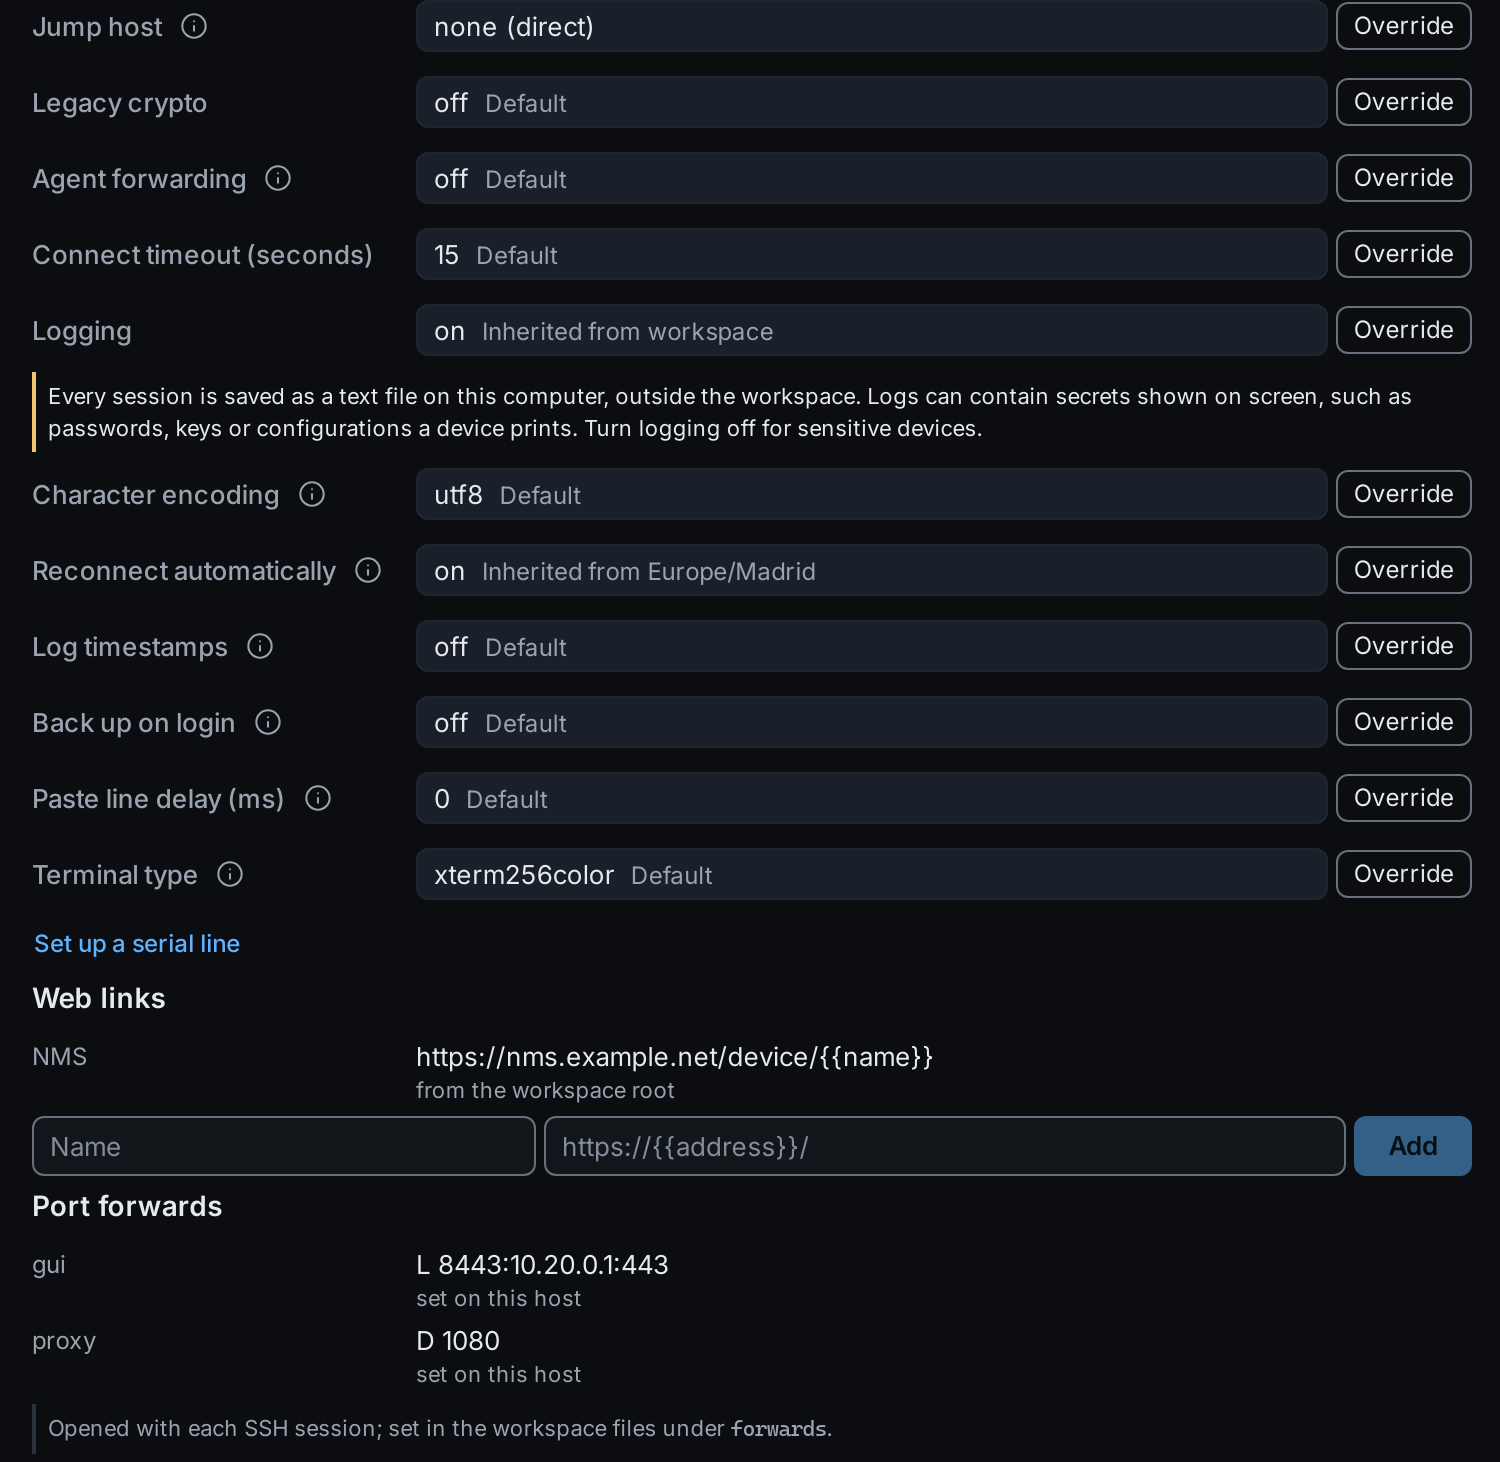
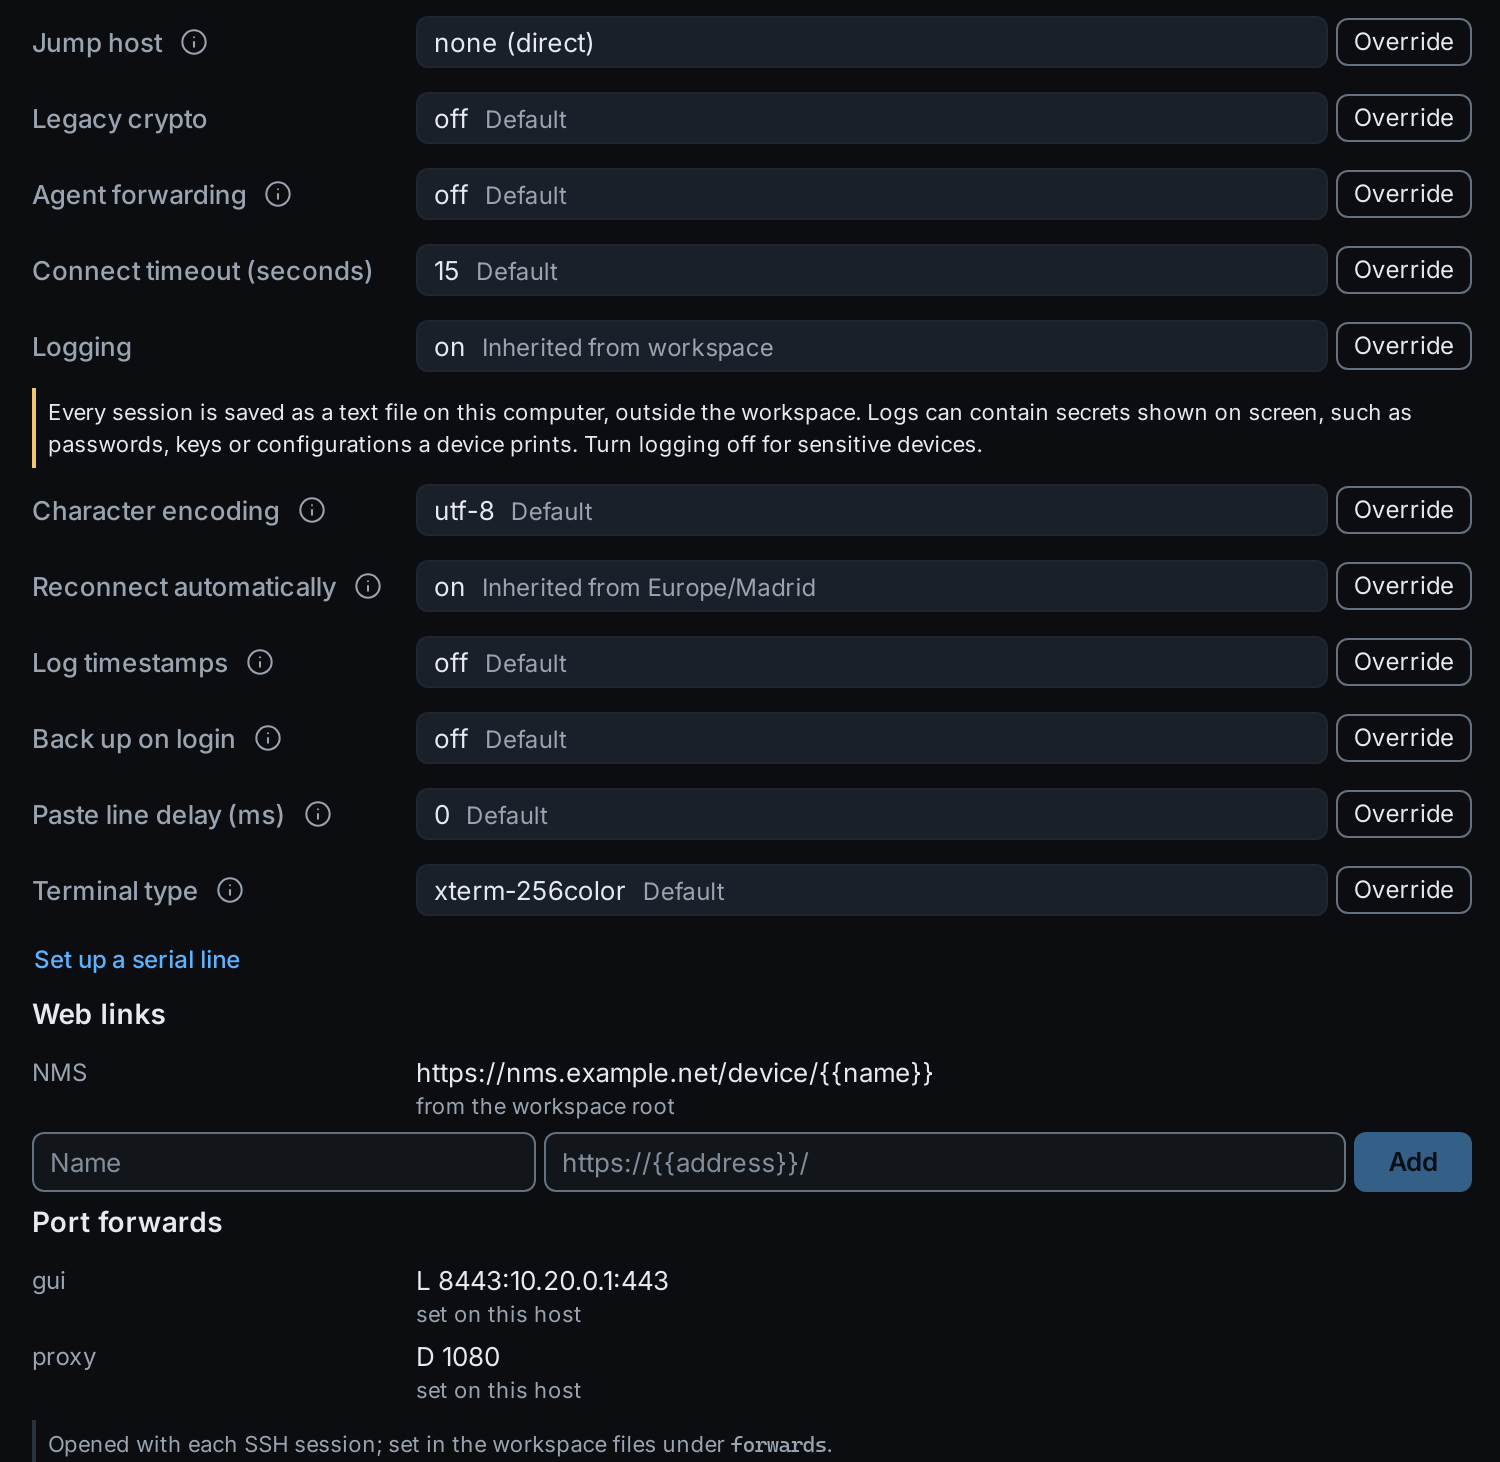
Settings: encodings and terminal types reach the interface as written in files (#55)
The choice! settings were serialized by serde with rename_all lowercase,
so the interface and the inventory export got the variant names
(utf8, iso8859_1, windows1252, xterm256color) instead of the file text,
and an edit from the settings panel with utf-8, iso-8859-1,
windows-1252 or xterm-256color could not be read back. The panel showed
those names as the effective value and an empty choice for a host set
to iso-8859-1. They now serialize and deserialize by the text the files
use; tests cover every value both ways and the export.

The SSH config import preview says 1 entry, not 1 entries.

host-settings.png is taken again: it showed utf8 and xterm256color.

diff --git a/src/lib/SshConfigImport.svelte b/src/lib/SshConfigImport.svelte
@@ -194,7 +194,9 @@
           data-preview-skipped={preview.skipped.length}
         >
           <summary
-            >{preview.skipped.length} entries of the file are not imported</summary
+            >{preview.skipped.length === 1
+              ? "1 entry of the file is not imported"
+              : `${preview.skipped.length} entries of the file are not imported`}</summary
           >
           <ul>
             {#each preview.skipped as entry, index (index)}

diff --git a/crates/core/tests/encoding.rs b/crates/core/tests/encoding.rs
@@ -12,7 +12,7 @@ use enodix_core::session::{
     Encoding, OpenOptions, SessionEvents, SessionId, SessionManager, SessionState, SessionTarget,
     TerminalSize,
 };
-use enodix_core::workspace::{Effective, HostId, Origin, Workspace};
+use enodix_core::workspace::{Effective, HostId, Origin, Settings, Workspace};
 use support::telnet::{TestTelnetServer, PASSWORD_PROMPT, TELNET_PROMPT, USERNAME_PROMPT};
 use support::{next_state, output_ending_with, PASSWORD, USERNAME};
 use tempfile::TempDir;
@@ -138,6 +138,33 @@ fn the_encoding_inherits_like_the_other_settings() {
             origin: Origin::Default
         }
     );
+}
+
+/// The interface gets and sends settings as JSON: an encoding is written
+/// there as in the files, so that the settings panel shows "utf-8" and its
+/// choices can be saved.
+#[test]
+fn the_interface_sees_and_sends_encodings_as_written_in_files() {
+    let (_temp, workspace) = workspace();
+    let resolved = workspace.resolve_host(&HostId::new("Old/b.yaml")).unwrap();
+    let json = serde_json::to_value(&resolved.settings).unwrap();
+    assert_eq!(json["encoding"]["value"], "iso-8859-1");
+
+    for (encoding, text) in [
+        (Encoding::Utf8, "utf-8"),
+        (Encoding::Iso8859_1, "iso-8859-1"),
+        (Encoding::Windows1252, "windows-1252"),
+        (Encoding::Cp437, "cp437"),
+    ] {
+        assert_eq!(serde_json::to_value(encoding).unwrap(), text);
+        assert_eq!(
+            serde_json::from_value::<Encoding>(text.into()).unwrap(),
+            encoding
+        );
+    }
+    let edit: Settings = serde_json::from_str(r#"{"encoding": "iso-8859-1"}"#).unwrap();
+    assert_eq!(edit.encoding, Some(Encoding::Iso8859_1));
+    assert!(serde_json::from_value::<Encoding>("iso8859_1".into()).is_err());
 }
 
 #[test]

diff --git a/crates/core/src/workspace/settings.rs b/crates/core/src/workspace/settings.rs
@@ -206,10 +206,26 @@ impl ForwardSetting {
 macro_rules! choice {
     ($(#[$doc:meta])* $name:ident { $($variant:ident = $text:literal),+ $(,)? }) => {
         $(#[$doc])*
-        #[derive(Debug, Clone, Copy, PartialEq, Eq, Serialize, Deserialize)]
-        #[serde(rename_all = "lowercase")]
+        // Serialized as written in files ("utf-8", "xterm-256color"), so
+        // that the interface shows and sends the same text.
+        #[derive(Debug, Clone, Copy, PartialEq, Eq)]
         pub enum $name {
             $($variant),+
+        }
+
+        impl Serialize for $name {
+            fn serialize<S: serde::Serializer>(&self, serializer: S) -> Result<S::Ok, S::Error> {
+                serializer.serialize_str(self.as_str())
+            }
+        }
+
+        impl<'de> Deserialize<'de> for $name {
+            fn deserialize<D: serde::Deserializer<'de>>(deserializer: D) -> Result<Self, D::Error> {
+                let text = String::deserialize(deserializer)?;
+                Self::parse(&text).ok_or_else(|| {
+                    serde::de::Error::custom(format!("`{text}` is not {}", Self::expected()))
+                })
+            }
         }
 
         impl $name {

diff --git a/crates/core/tests/terminal_type.rs b/crates/core/tests/terminal_type.rs
@@ -101,6 +101,27 @@ fn the_terminal_type_is_written_and_checked() {
     );
 }
 
+/// The interface gets and sends settings as JSON, with the terminal type
+/// written as in the files.
+#[test]
+fn the_interface_sees_and_sends_terminal_types_as_written_in_files() {
+    for (terminal_type, text) in [
+        (TerminalType::Xterm256Color, "xterm-256color"),
+        (TerminalType::Xterm, "xterm"),
+        (TerminalType::Vt100, "vt100"),
+        (TerminalType::Ansi, "ansi"),
+        (TerminalType::Linux, "linux"),
+    ] {
+        assert_eq!(serde_json::to_value(terminal_type).unwrap(), text);
+        assert_eq!(
+            serde_json::from_value::<TerminalType>(text.into()).unwrap(),
+            terminal_type
+        );
+    }
+    let edit: Settings = serde_json::from_str(r#"{"terminal_type": "xterm-256color"}"#).unwrap();
+    assert_eq!(edit.terminal_type, Some(TerminalType::Xterm256Color));
+}
+
 #[test]
 fn an_unknown_terminal_type_is_reported_for_that_file() {
     let temp = TempDir::new().unwrap();

diff --git a/crates/core/tests/inventory_export.rs b/crates/core/tests/inventory_export.rs
@@ -285,3 +285,20 @@ fn the_json_has_plain_values_and_no_secrets() {
         assert!(!all_text.contains(word), "{word} in {all_text}");
     }
 }
+
+/// The JSON the headless binary prints writes each choice as the files do.
+#[test]
+fn choices_are_exported_as_written_in_the_files() {
+    let temp = tempfile::TempDir::new().unwrap();
+    std::fs::write(
+        temp.path().join("old.yaml"),
+        "address: 10.0.0.1\nencoding: iso-8859-1\nterminal_type: xterm-256color\n",
+    )
+    .unwrap();
+    let workspace = Workspace::open(temp.path()).unwrap();
+
+    let json = serde_json::to_value(export_of(&workspace, Limit::All)).unwrap();
+    let settings = &json["hosts"][0]["settings"];
+    assert_eq!(settings["encoding"], "iso-8859-1");
+    assert_eq!(settings["terminal_type"], "xterm-256color");
+}
